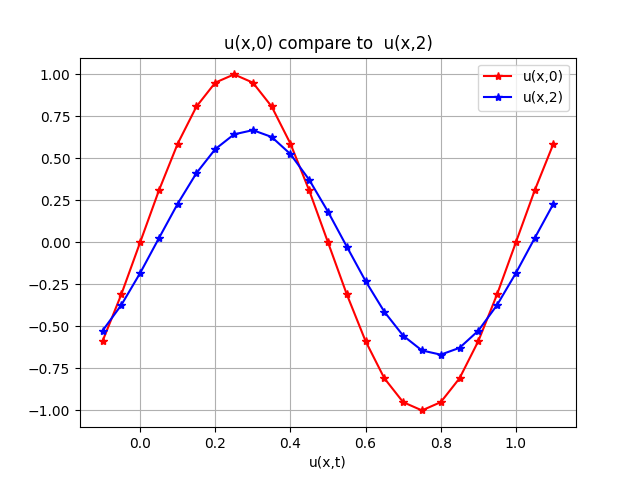
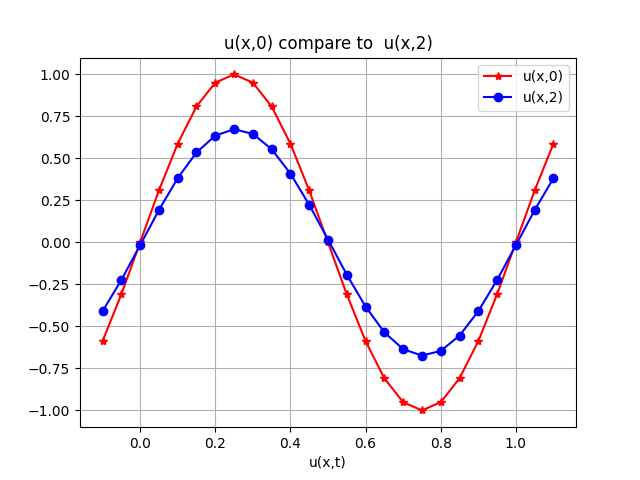
change the while loop and add some introduction

Changed region(s): [[0.1562, 0.25, 0.875, 0.75], [0.75, 0.1875, 0.7812, 0.2188]]

diff --git a/hw1.py b/hw1.py
@@ -1,3 +1,9 @@
+## Author : Bo Yuan You 
+## Date 2021/10/01
+## CFD homework 2 
+## Lecture p6~p7
+## Finite Difference Method on periodic B.C.
+
 import numpy as np
 import matplotlib.pyplot as plt
 # Step0 : Set dimension 
@@ -34,15 +40,16 @@ callBC()
 # Step4 : PDE(FDM), main part of the program 
 t = 0
 plt.plot(x,u,'r-*', label = 'u(x,0)')
-while(t <= 2):
+while(round(t + DT, 2) <= 2):
+    t = round(t + DT, 2)    # Round off the two decimal places
     print(t)
     u0 = u.copy()
     FDM(u,u0)
     callBC()
-    t = round(t + DT, 2)    # Round off the two decimal places
+
 
 # Step5 : Plotting 
-plt.plot(x,u,'b-*', label = 'u(x,2)')
+plt.plot(x,u,'b-o', label = 'u(x,2)')
 plt.title("u(x,0) compare to  u(x,2)")
 plt.xlabel("x")
 plt.xlabel("u(x,t)")
@@ -50,4 +57,3 @@ plt.grid(True)
 plt.legend()
 plt.savefig("hw1.png")
 plt.show()
-
